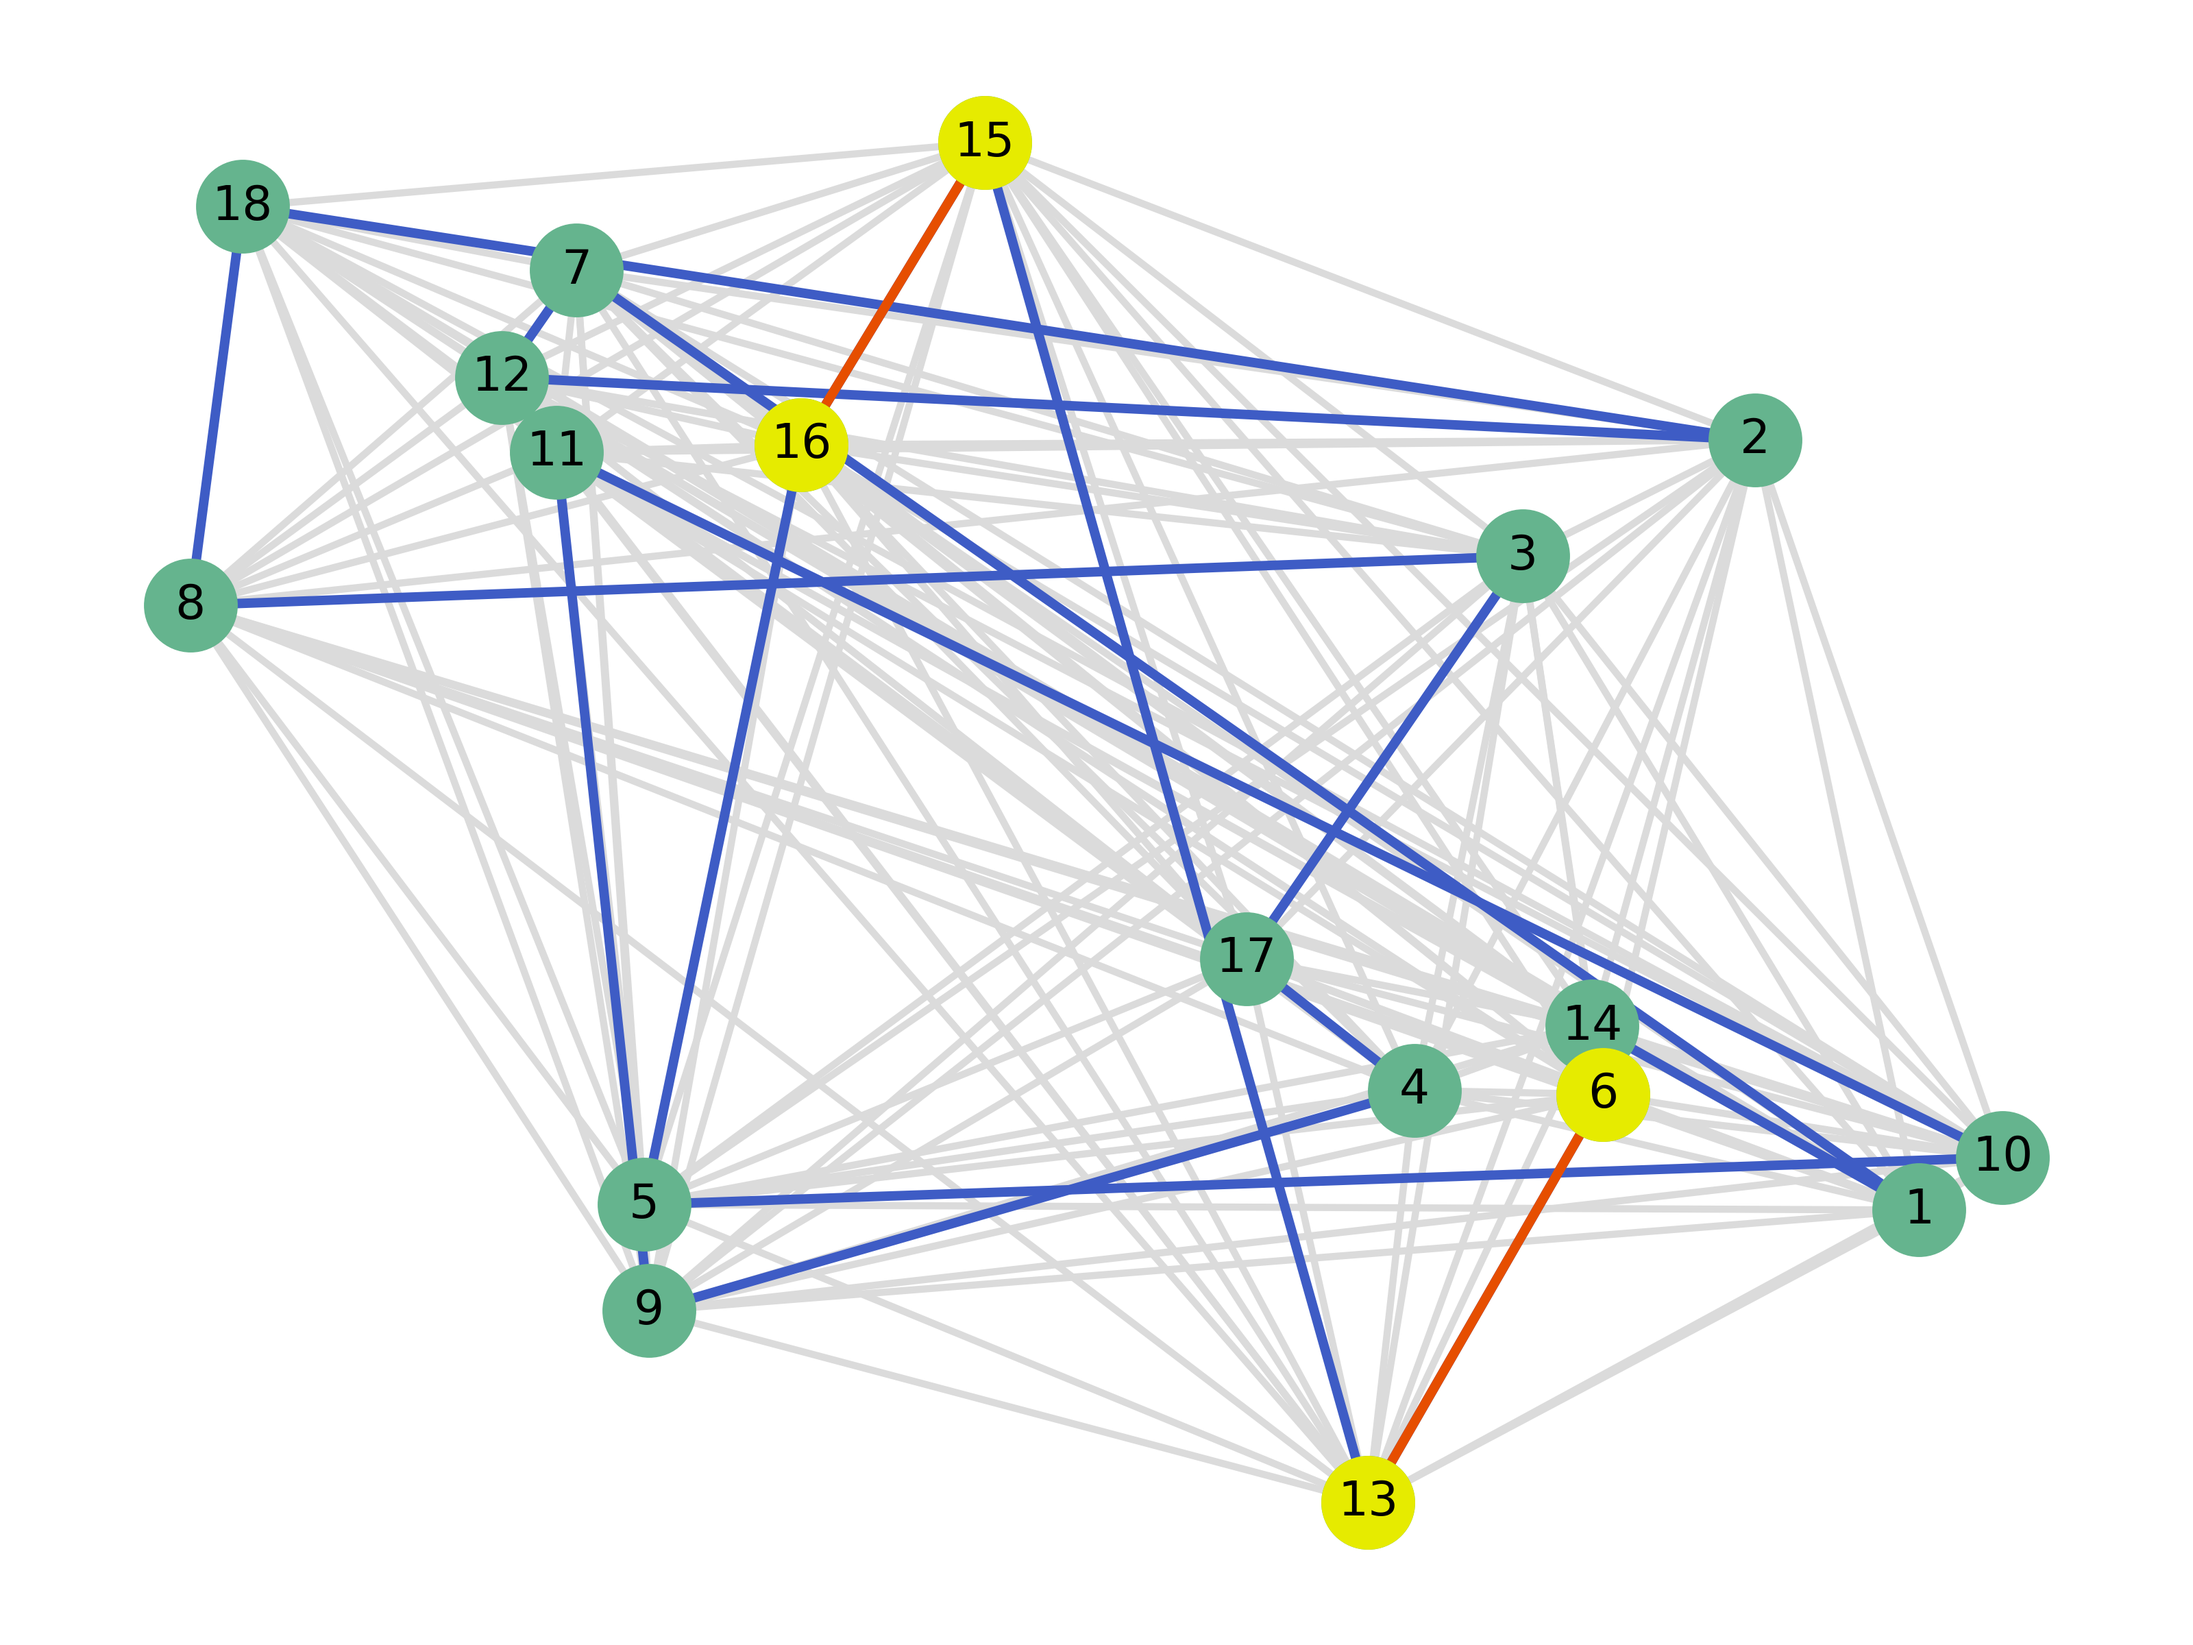
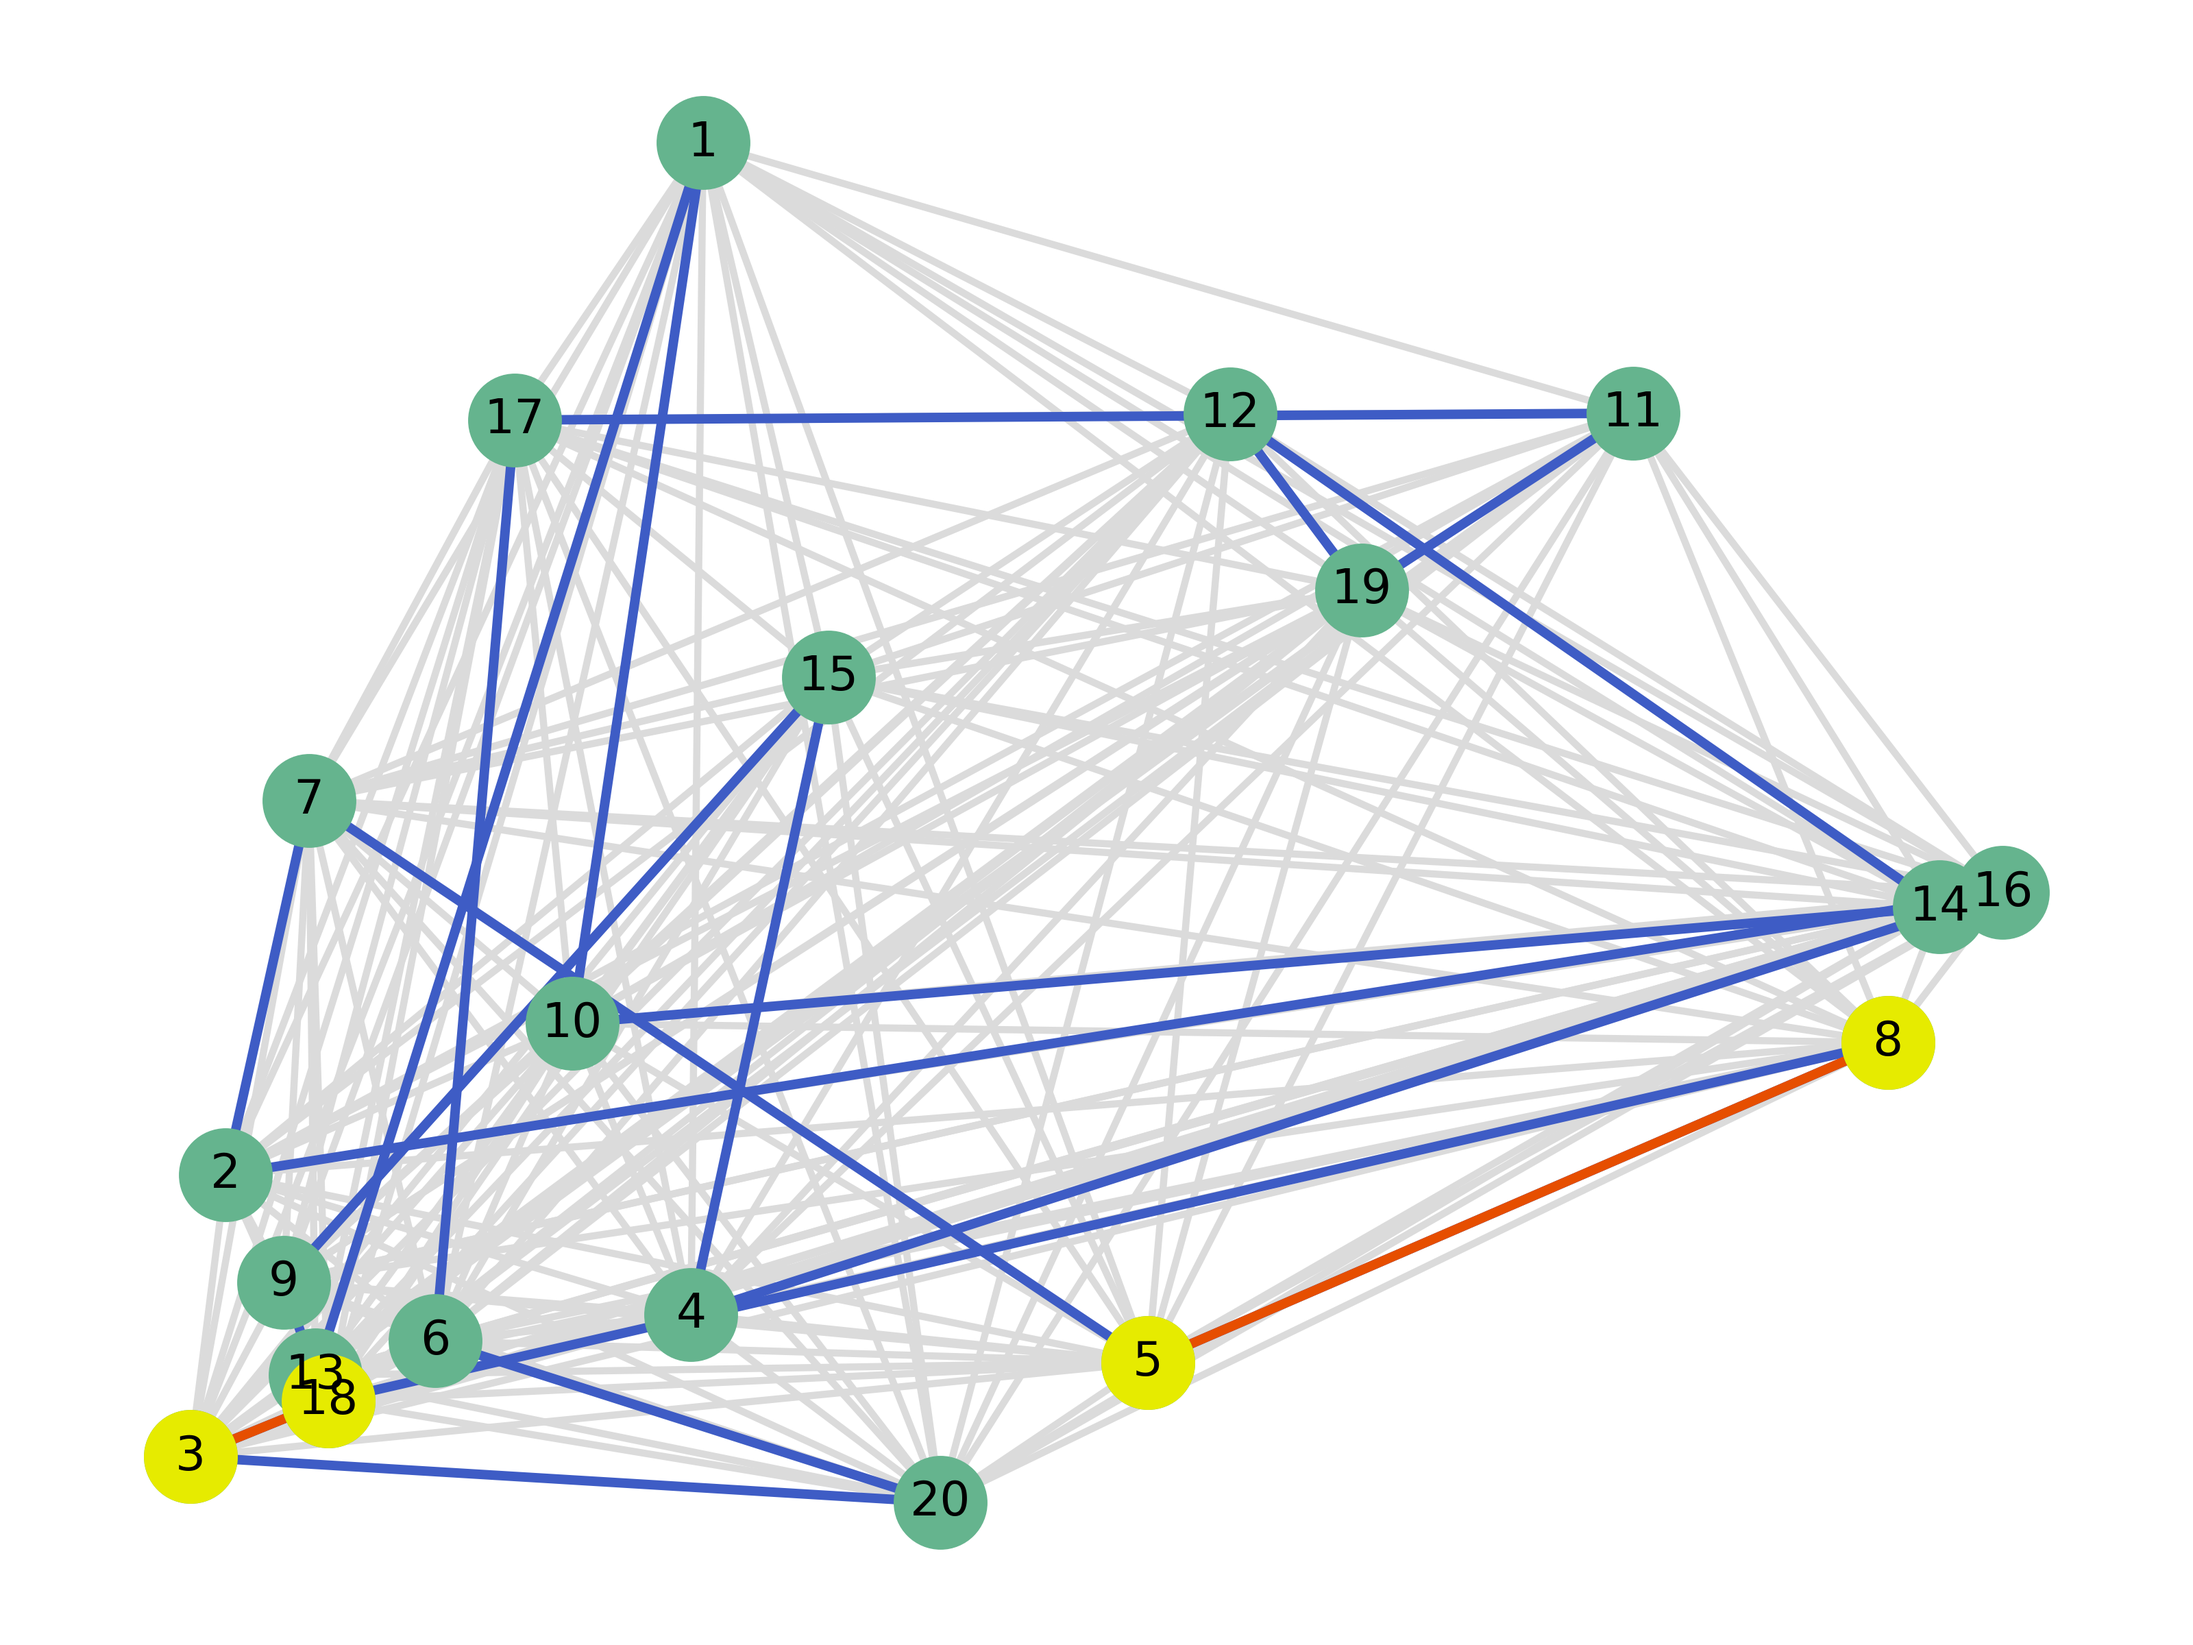
dynamic visualization with animation; control num_cities

diff --git a/playground/templates/playground/hc.html b/playground/templates/playground/hc.html
@@ -13,28 +13,63 @@
 </head>
 
 <body>
-
-    <div id="result">
-        <h2>Best Tour: <span id="tour">{{ tour|join:' -> ' }}</span></h2>
-        <h2>Best Distance: <span id="distance">{{ distance }}</span></h2>
+    <div id="controls">
+        <h2>Travelling salesman problem parameters</h2>
+        <label>City count:</label>
+        <input type="radio" name="city-count" value="5"> 5 cities
+        <input type="radio" name="city-count" value="10"> 10 cities
+        <input type="radio" name="city-count" value="15"> 15 cities
+        <input type="radio" name="city-count" value="20"> 20 cities
+        <br>
+        <button id="start-button">Start</button>
+    </div>
+    <div id="result" style="display: none;">
+        <h2>Best Tour: <span id="tour"></span></h2>
+        <h2>Best Distance: <span id="distance"></span></h2>
         <div id="plots">
             <ul class="rotating">
-                {% for plot_file in plot_files %}
-                <li class="image"><img src="{{ plot_file }}" alt="Plot" class="plot-image"></li>
-                {% endfor %}
+                <!-- Plots will be dynamically added here -->
             </ul>
         </div>
     </div>
 
     <script>
         $(document).ready(function() {
-            let plotFiles = {{ plot_files|safe }};
-            let numberOfImages = plotFiles.length;
-            let totalDuration = numberOfImages * 1; // 3 seconds per image
+            $('#start-button').click(function() {
+                let selectedCityCount = $('input[name="city-count"]:checked').val();
+                if (!selectedCityCount) {
+                    alert('Please select the number of cities.');
+                    return;
+                }
 
-            $('.rotating .image').each(function(index) {
-                $(this).css('animation', `rotate ${totalDuration}s forwards linear`);
-                $(this).css('animation-delay', `${index * 1}s`);
+                $.ajax({
+                    url: '{% url "hc" %}', // Assuming your URL name for the hc view is "hc"
+                    method: 'POST',
+                    data: {
+                        'city_count': selectedCityCount,
+                        'csrfmiddlewaretoken': '{{ csrf_token }}'
+                    },
+                    success: function(response) {
+                        $('#tour').text(response.tour.join(' -> '));
+                        $('#distance').text(response.distance);
+                        $('.rotating').empty();
+                        response.plot_files.forEach(function(plot_file, index) {
+                            let timestamp = new Date().getTime();
+                            let plot_url = plot_file + '?t=' + timestamp;
+                            $('.rotating').append('<li class="image"><img src="' + plot_url + '" alt="Plot" class="plot-image"></li>');
+                        });
+
+                        let numberOfImages = response.plot_files.length;
+                        let totalDuration = numberOfImages * 1; // 3 seconds per image
+
+                        $('.rotating .image').each(function(index) {
+                            $(this).css('animation', `rotate ${totalDuration}s forwards linear`);
+                            $(this).css('animation-delay', `${index * 1}s`);
+                        });
+
+                        $('#result').show();
+                    }
+                });
             });
         });
     </script>

diff --git a/playground/views.py b/playground/views.py
@@ -14,38 +14,38 @@ def extract_number(string):
     return int(match.group(1)) if match else -1
 
 def hc(request):
-    context = dict()
-        
-    # Clean up old plot files
-    plots_dir = os.path.join(settings.MEDIA_ROOT, 'plots')
-    # for file in os.listdir(plots_dir):
-    #     file_path = os.path.join(plots_dir, file)
-    #     if os.path.isfile(file_path):
-    #         os.unlink(file_path)
+    if request.method == 'POST':
+        num_cities = int(request.POST.get('city_count'))
+        context = dict()
             
-    # num_cities = random.randint(5, 20)
-    # hc = HillClimbing(num_cities)
-    # tour, distance = hc.run()
-    tour = [1,2,3,4]
-    distance = 0.5
+        # Clean up old plot files
+        plots_dir = os.path.join(settings.MEDIA_ROOT, 'plots')
+        for file in os.listdir(plots_dir):
+            file_path = os.path.join(plots_dir, file)
+            if os.path.isfile(file_path):
+                os.unlink(file_path)
+                
+        hc = HillClimbing(num_cities)
+        tour, distance = hc.run()
 
-    # Gather plot file paths
-    plot_files = [
-        os.path.join(settings.MEDIA_URL, 'plots', file).replace('\\', '/')
-        for file in os.listdir(plots_dir)
-        if file.endswith('.png')
-    ]
-    plot_files = sorted(plot_files, key=extract_number)
-    # print(type(plot_files))
+        # Gather plot file paths
+        plot_files = [
+            os.path.join(settings.MEDIA_URL, 'plots', file).replace('\\', '/')
+            for file in os.listdir(plots_dir)
+            if file.endswith('.png')
+        ]
+        plot_files = sorted(plot_files, key=extract_number)
+        # print(type(plot_files))
 
-    context.update({
-        'tour': tour,
-        'distance': distance,
-        'plot_files': plot_files
-    })
-    # print(context['plot_files'])
-
-    return render(request, 'playground/hc.html', context)
+        context.update({
+            'tour': tour,
+            'distance': distance,
+            'plot_files': plot_files
+        })
+        # print(context['plot_files'])
+        return JsonResponse(context)
+    else:
+        return render(request, 'playground/hc.html')
 # def hc(request):
 #     return render(request, "playground/hc.html", {"algorithms": algorithms})
 

diff --git a/playground/urls.py b/playground/urls.py
@@ -3,7 +3,7 @@ from . import views
 
 # URLconf
 urlpatterns = [
-    path("", views.hc, name="hc"),
+    path("hc/", views.hc, name="hc"),
     path("hc_restarts/", views.hc_restarts, name="hc_restarts"),
     path("hc_larger_radii/", views.hc_larger_radii, name="hc_larger_radii"),
     # path("update_hc/", views.update_hc, name="update_hc"),
